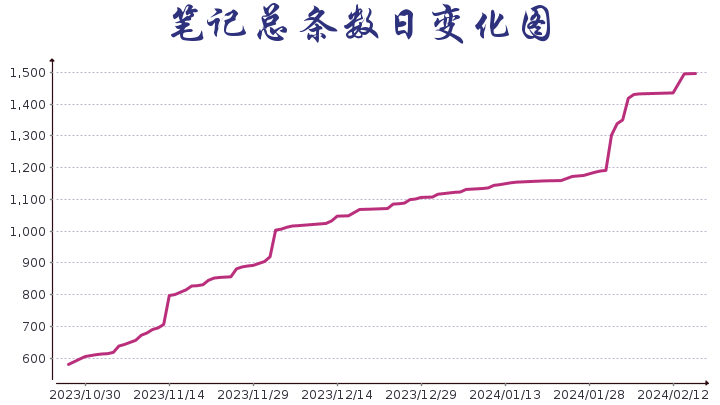
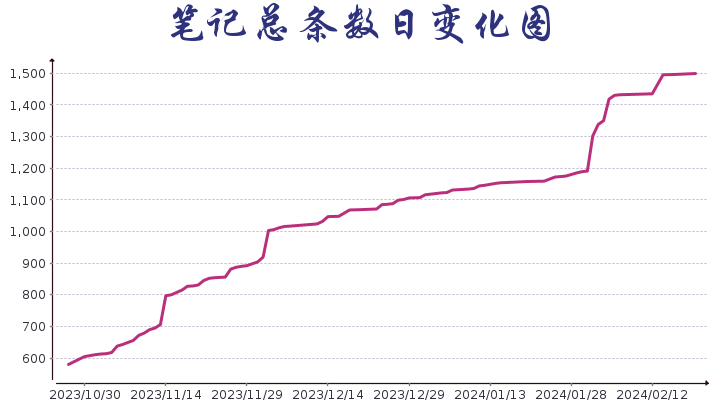
Auto Update README.md

diff --git a/README.md b/README.md
@@ -1,37 +1,24 @@
-<p align="right">更新于: <b>2024/02/19 23:13:50</b></p>
-<p align="right">当前笔记总条数: <b>1496</b></p>
-<p align="right">当前笔记本数: <b>50</b></p>
+<p align="right">更新于: <b>2024/02/20 22:59:00</b></p>
+<p align="right">当前笔记总条数: <b>1499</b></p>
+<p align="right">当前笔记本数: <b>51</b></p>
 <p align="right">当前美文总数: <b>36</b></p>
 
 ![笔记数日变化曲线图](DailyNoteSum.png)
-
----
-
 # 手帐札记本
-> 这只是一份简单的笔记本吖！
-
-阅读，最高的境界是“消化”，不是去消化自己所读到的内容，而是通过阅读，去消化那些已经发生在自己身上的人生内容。
-
-★这是在阅读过程中摘抄了一些有趣的语句的收集本，也是可以时常拿出来去重新品读名言警句的魅力的笔记本，不断的汲取书籍中的养分，时常给自己充充电。
-
-一册经典，如同一杯陈年佳酿、一位故旧老友，那种熟悉感，自非旁人可知。
-
-**此仓库的README文件每日自动更新，将呈现当前的笔记总条数、笔记本数、美文总数和变化趋势；同时随机选择六条语句作为每日一言，每日查看不同的笔记；另外会将最近的15条更新放在最近更新级别中，查看最近更新的内容；最后将展现当前笔记本目录，呈现笔记数和更新时间。**
-
-希望此仓库能给大家带来帮助！✿
+> 这只是一份简单的笔记本吖！阅读，最高的境界是“消化”，不是去消化自己所读到的内容，而是通过阅读，去消化那些已经发生在自己身上的人生内容。★这是在阅读过程中摘抄了一些有趣的语句的收集本，也是可以时常拿出来去重新品读名言警句的魅力的笔记本，不断的汲取书籍中的养分，时常给自己充充电。一册经典，如同一杯陈年佳酿、一位故旧老友，那种熟悉感，自非旁人可知。**此仓库的README文件每日自动更新，将呈现当前的笔记总条数、笔记本数、美文总数和变化趋势；同时随机选择六条语句作为每日一言，每日查看不同的笔记；另外会将最近的15条更新放在最近更新级别中，查看最近更新的内容；最后将展现当前笔记本目录，呈现笔记数和更新时间。**希望此仓库能给大家带来帮助！
 
 ## 每日一言
-> 来源: [发疯文学](/home/runner/work/Notepad/Notepad/发疯文学.md)<br>**吃得苦中苦，老板开路虎。**
+> 来源: [米兰·昆德拉《不能承受的生命之轻》](/home/runner/work/Notepad/Notepad/图书笔记/米兰·昆德拉《不能承受的生命之轻》.md)<br>**正因为如此，“同情”这个词一般会引发蔑视，它指的是一种处于次要地位的感情，同爱情没有瓜葛。出于同情爱一个人，并非真正爱他。**
 
-> 来源: [随手记录](/home/runner/work/Notepad/Notepad/随手记录.md)<br>**人间一趟，积极向上，不畏将来，不念过往，不负时光，野蛮生长。**
+> 来源: [随手记录](/home/runner/work/Notepad/Notepad/随手记录.md)<br>**心理健康，是需要付出代价的，而一个常见的代价是——我不再是众人口碑中的好人。<p align="right">——武志红</p>**
 
-> 来源: [随手记录](/home/runner/work/Notepad/Notepad/随手记录.md)<br>**我欲与君相知，长命无绝衰。山无陵，江水为竭。冬雷震震，夏雨雪。天地合，乃敢与君绝。**
+> 来源: [路遥《平凡的世界》](/home/runner/work/Notepad/Notepad/图书笔记/路遥《平凡的世界》.md)<br>**人的感情有时候真是不可思议，他也许对人是冷漠的，但可以对一个动物怀着永远的眷恋。**
 
-> 来源: [路遥《平凡的世界》](/home/runner/work/Notepad/Notepad/图书笔记/路遥《平凡的世界》.md)<br>**时间啊，这么飞快！可是生活的道路又如此曲折而漫长……**
+> 来源: [杂志摘录](/home/runner/work/Notepad/Notepad/杂志摘录.md)<br>**人间的风景并不只是繁华。喧闹中，还有“小人物”快乐的憨笑、歌吟。快乐是件很简单的事，带给你内心的愉悦、满足和轻盈，像鼓荡的旗。**
 
-> 来源: [杂志摘录](/home/runner/work/Notepad/Notepad/杂志摘录.md)<br>**你可以这么想，人总有不顺利或疲倦的时候，在那种时候，就把它当成神赐给我们的很长很长的假期。**
+> 来源: [随手记录](/home/runner/work/Notepad/Notepad/随手记录.md)<br>**同一个错误不应该犯两次，如果犯了，那大概不是错误，而是选择。**
 
-> 来源: [老舍《四世同堂》](/home/runner/work/Notepad/Notepad/图书笔记/老舍《四世同堂》.md)<br>**生在某一种文化中的人，未必知道那个文化是什么，像水中的鱼似的，他不能跳出水外去看清楚那是什么水。假若他自己不能完全客观的去了解自己的文化，那能够客观的来观察的旁人，又因为生活在这种文化以外，就极难咂摸到它的滋味，而往往因一点胭脂，断定他美，或几个麻斑而断定他丑。不幸，假若这个观察者是要急于搜集一些资料，以便证明他心中的一点成见，他也许就只找有麻子的看，而对擦胭脂的闭上眼。**
+> 来源: [随手记录](/home/runner/work/Notepad/Notepad/随手记录.md)<br>**处事不必求功，无过便是功。为人不必感德，无怨便是德。**
 
 
 ## 最近更新
@@ -44,11 +31,11 @@
 - 谁说生命是杯苦酒？
 - 在自己喜欢的女人面前，每个男人都会变成呆子的。
 - 天上星光闪烁，天地间充满了温柔之意，田里的稻子已熟了，在晚风中起伏着，仿佛海浪。
-- “家家都有本难念的经”，这一代名侠，其实也和普通人一样，也有他的烦恼和不幸，只不过这些事都已被他耀目的光辉所掩，人们只能看到他的光彩，却忘了有光的地方必有阴影。
-- 无论多么深的悲哀和痛苦，日久也会淡忘的，“忘记”，本就是人类所以能生存的本能之一。
-- 一个人在饥饿、疲倦时，肉体不支，精神更脆弱，内贼已将生，外贼自然更容易乘虚而入。
 
 ### [随手记录](随手记录.md)
+- 世界上只有两种事，一种是好事，一种是你暂时还不知道好在哪里的事。
+- 所谓“好运体质”，都带点盲目自信。
+- 没有非去不可的地方，只有非长大不可的人生。
 - 用爱心来做事，用感恩的心做人。
 - 不要试图变成理想中的那个人，而是给自己留出足够长的时间，找到自己真正的模样。
 - 我始终认为 ，我们接受高等教育的目的 是为了帮助家乡摆脱贫困 而不是摆脱贫困的家乡。
@@ -57,8 +44,8 @@
 ## 笔记目录
 | 笔记名 | 笔记数 | 更新于 | 创建于 |
 | :---: | :---: | :---: | :---: |
-| [随手记录](随手记录.md) | **291** | **2024/02/16** | **2023/10/29** |
-| [发疯文学](发疯文学.md) | **60** | **2024/02/14** | **2024/02/14** |
+| [发疯文学](发疯文学.md) | **60** | **2024/02/20** | **2024/02/14** |
+| [随手记录](随手记录.md) | **294** | **2024/02/20** | **2023/10/29** |
 | [古龙](图书笔记/古龙.md) | **48** | **2024/02/06** | **2024/01/20** |
 | [海底总动员](影视笔记/海底总动员.md) | **7** | **2024/02/04** | **2023/10/27** |
 | [杂志摘录](杂志摘录.md) | **328** | **2024/02/04** | **2023/10/27** |
